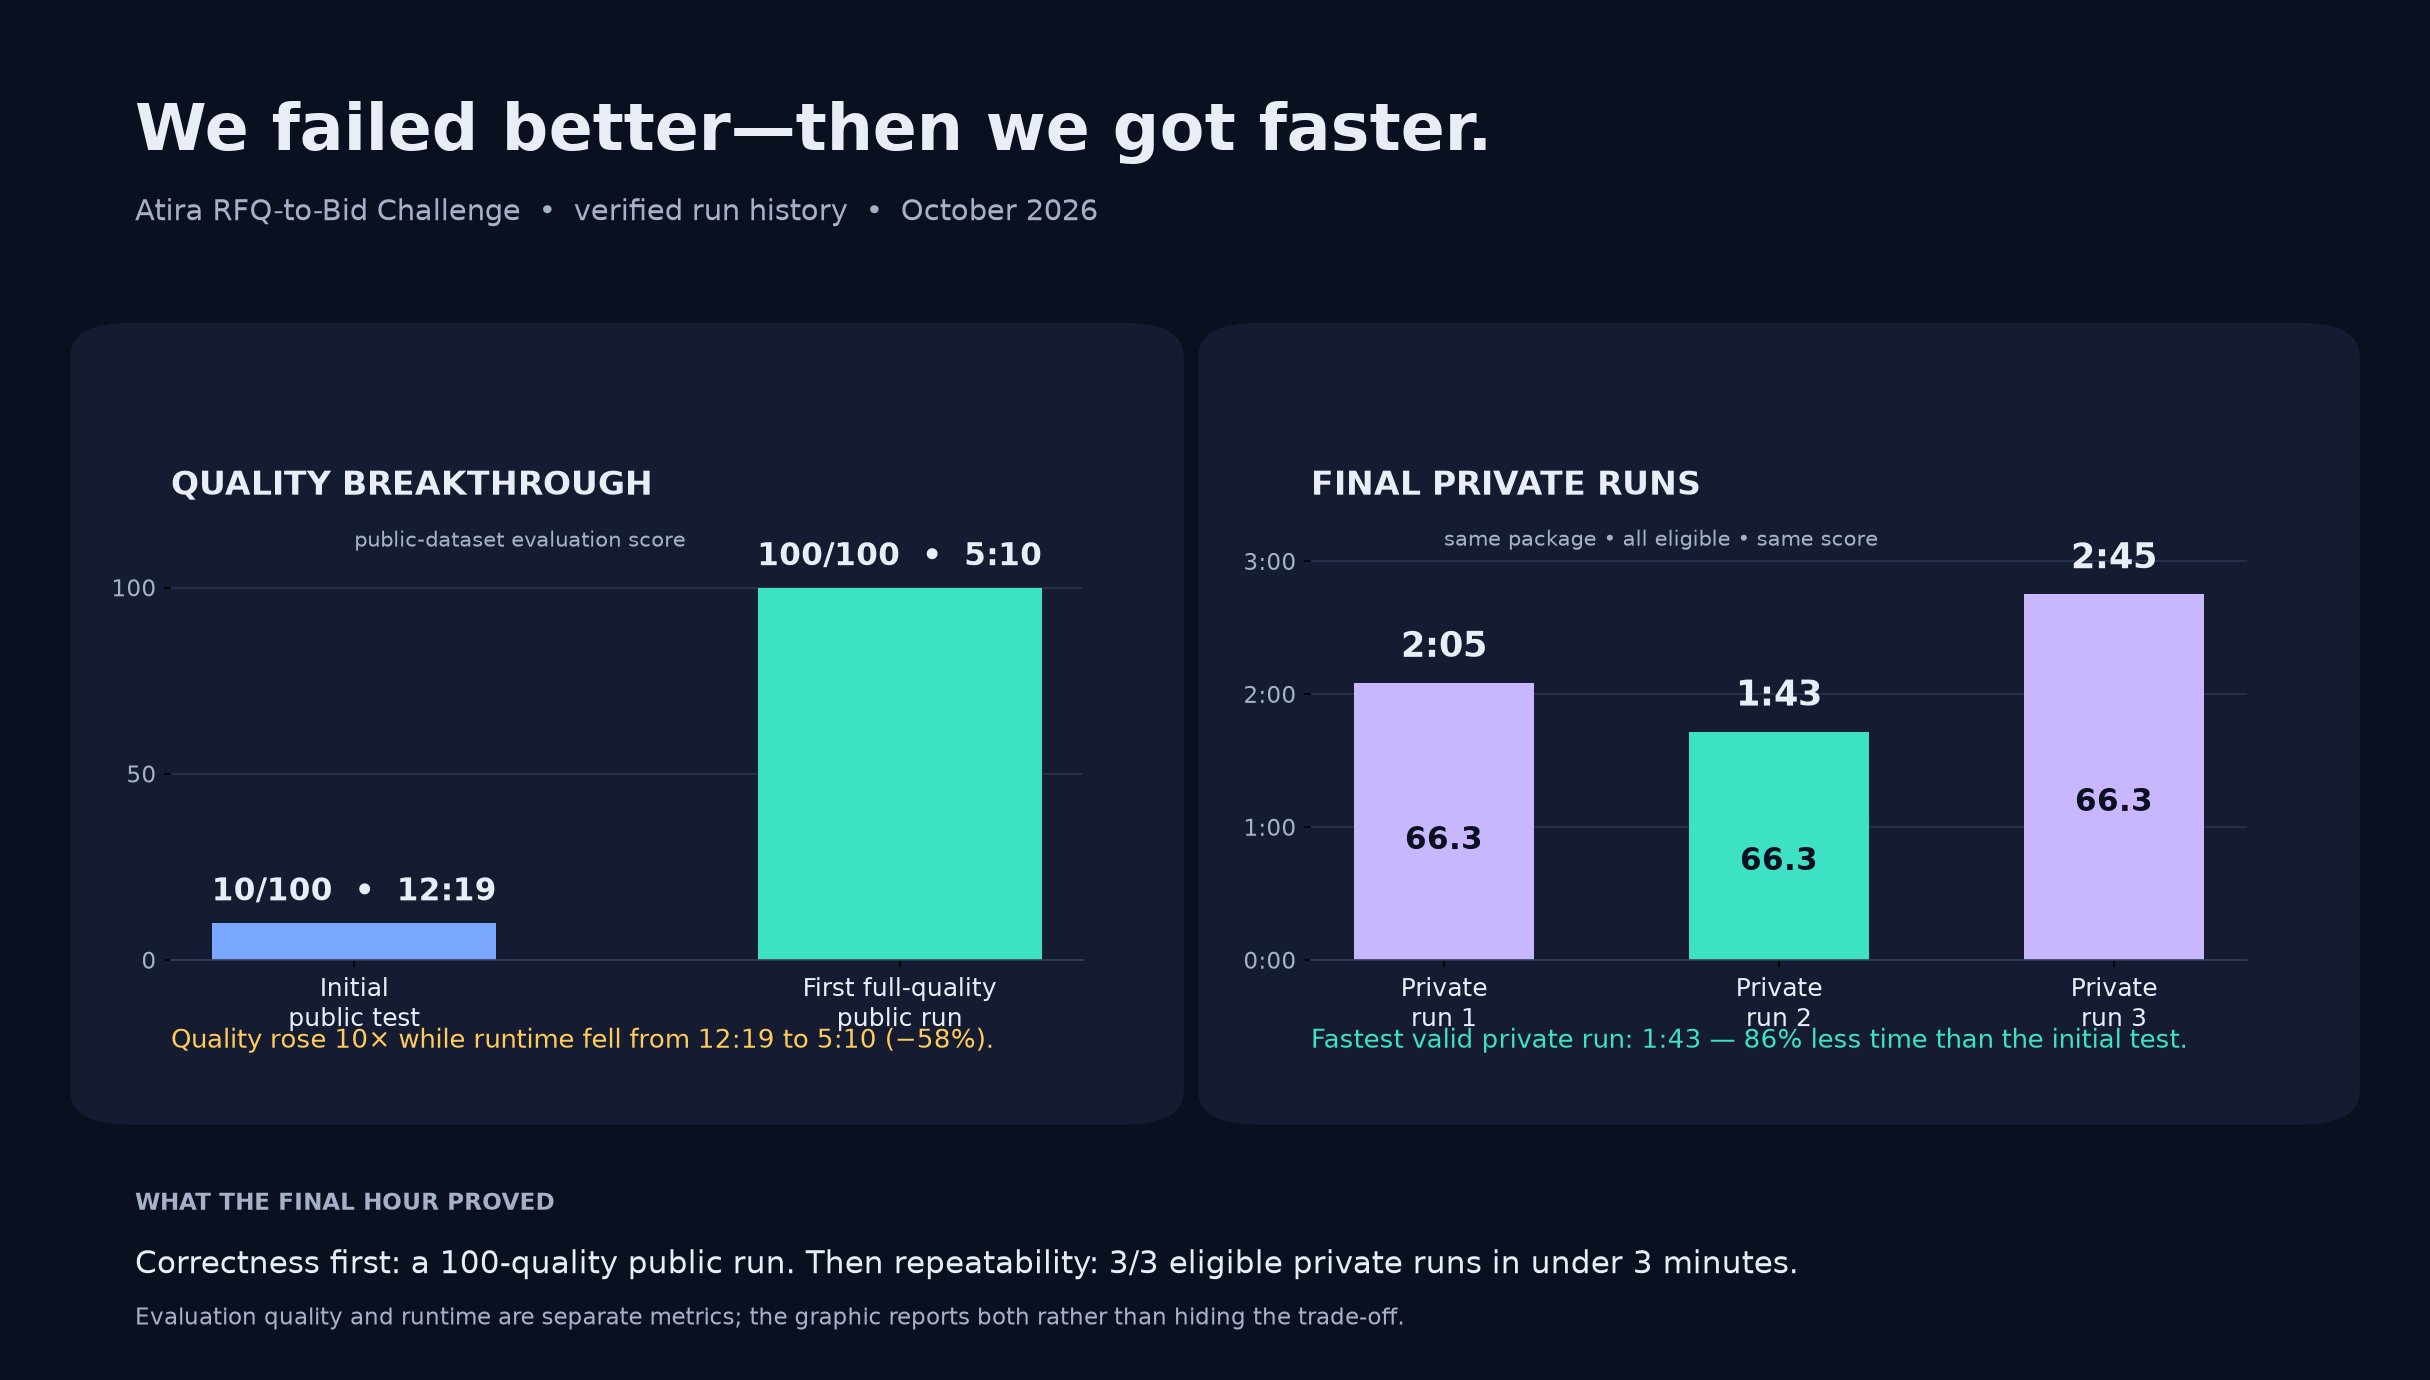
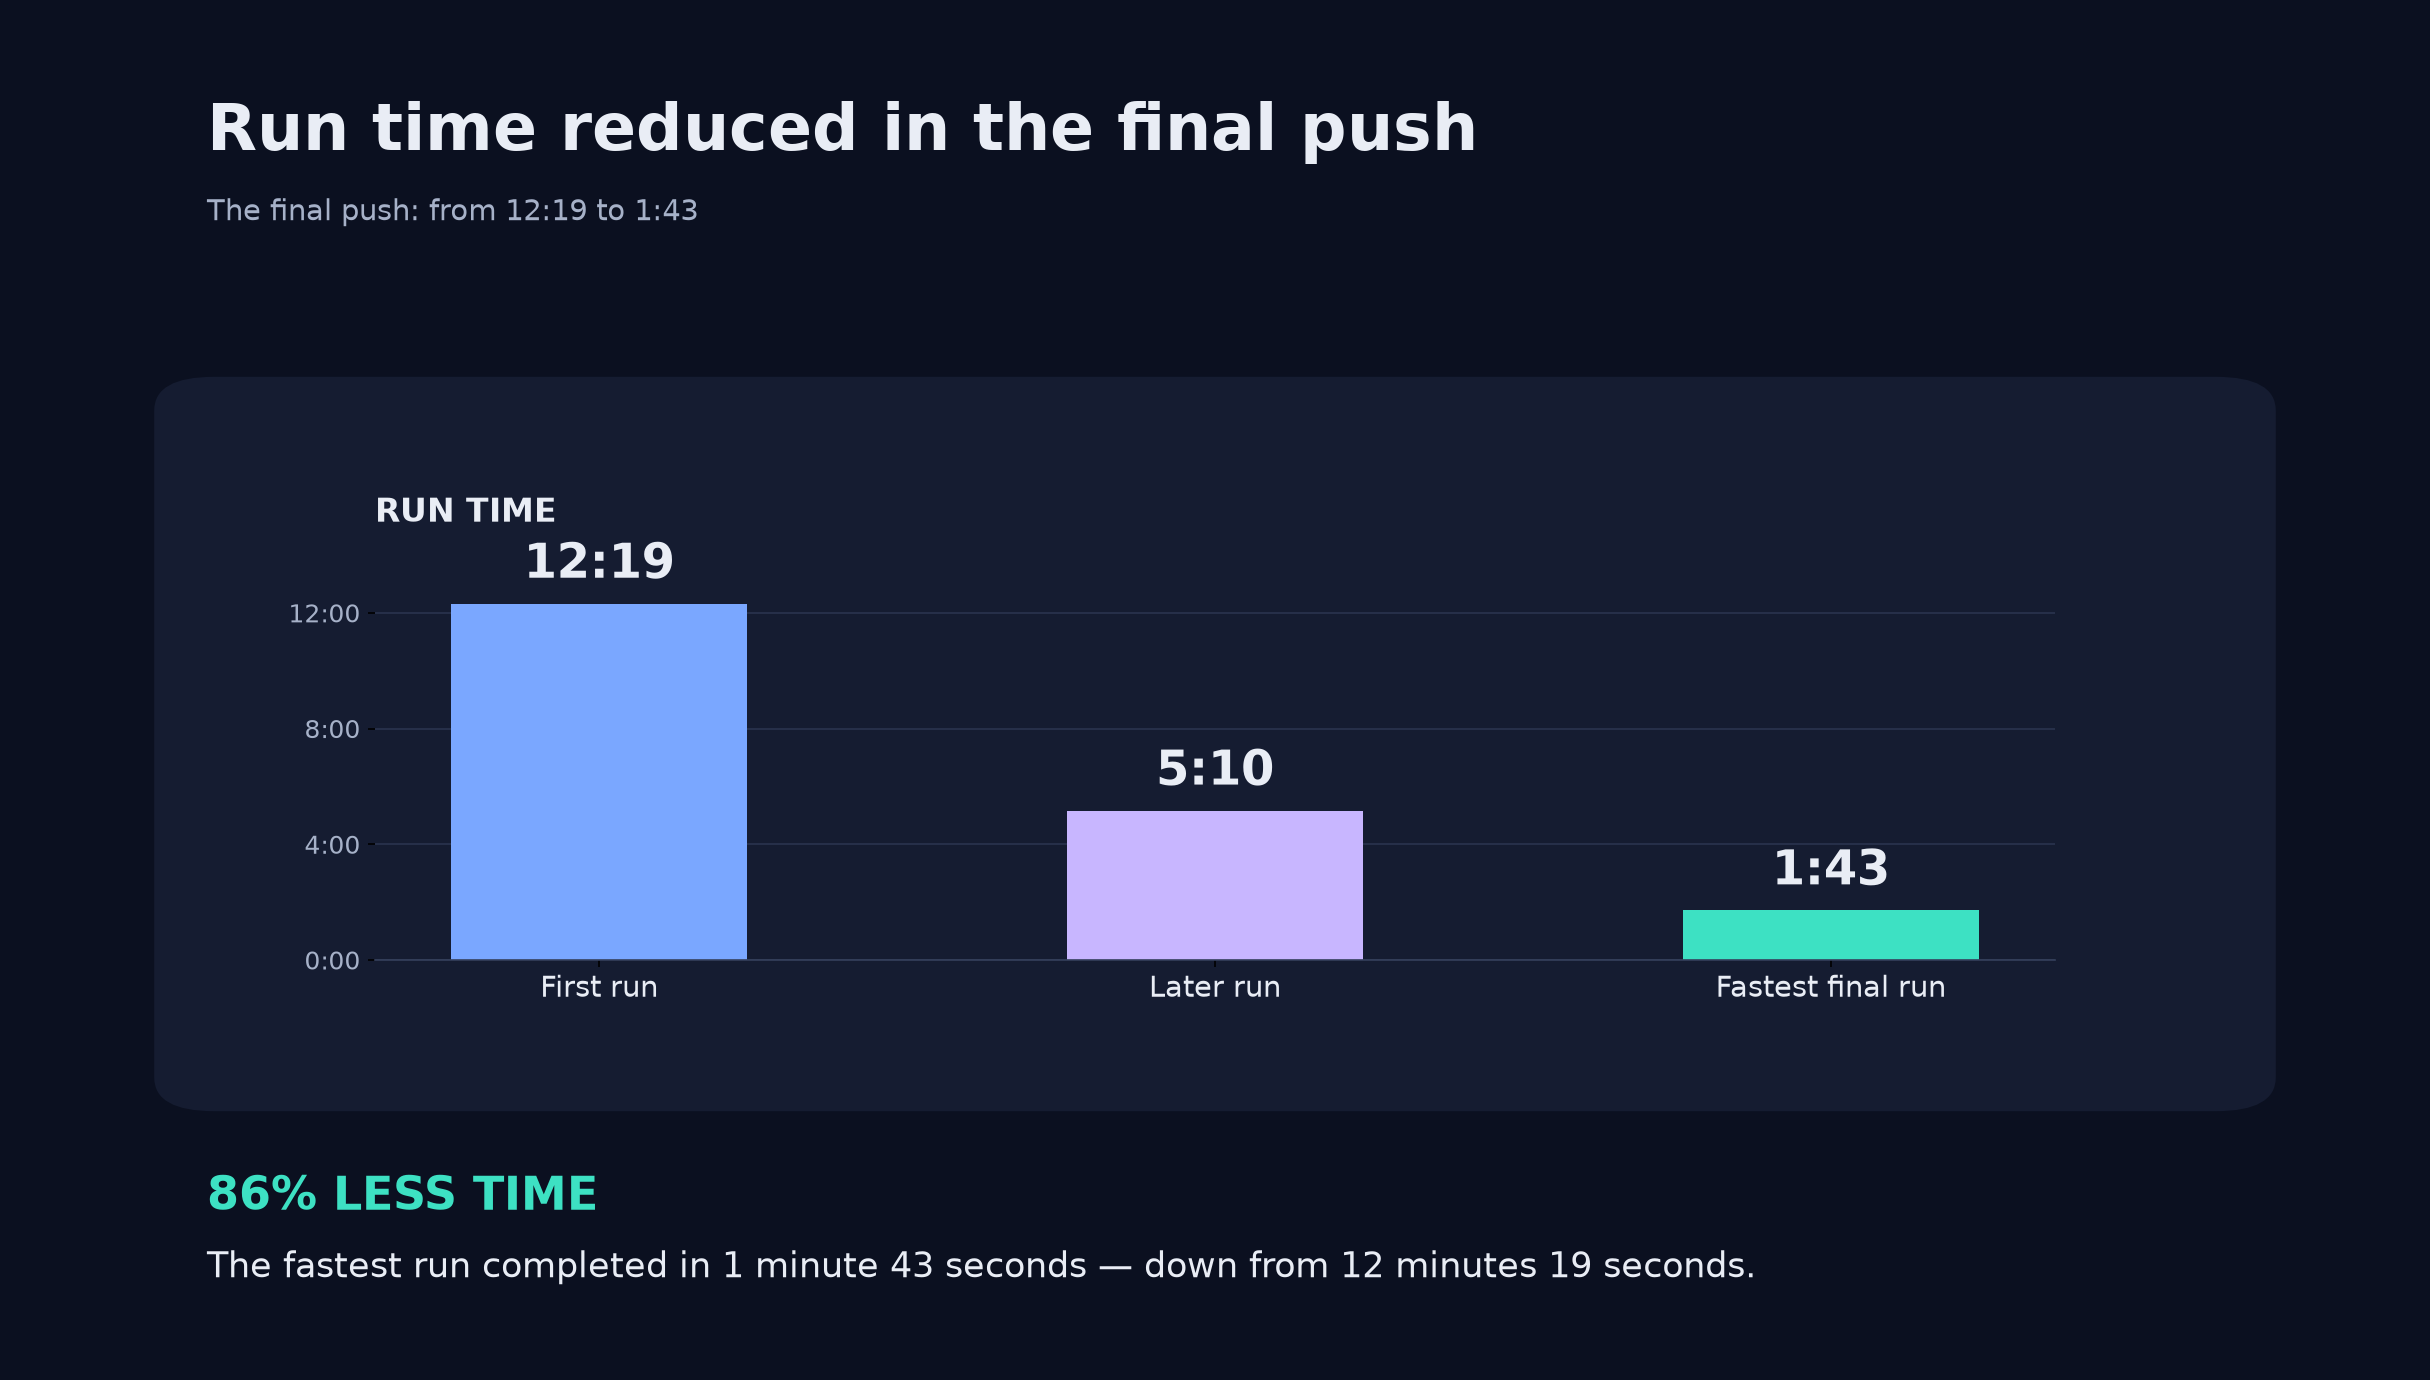
docs(linkedin): focus run evolution graphic on speed
Entire-Checkpoint: 01M4P7FY92EM1YDAS5WW4SHDJA

diff --git a/output/linkedin/make_run_evolution_graph.py b/output/linkedin/make_run_evolution_graph.py
@@ -28,13 +28,9 @@ def rounded_panel(ax, x: float, y: float, width: float, height: float, color: st
 
 
 def main() -> None:
-    # Verified, high-level run facts only. No scenario answers are embedded.
-    milestone_labels = ["Initial\npublic test", "First full-quality\npublic run"]
-    milestone_quality = [10.0, 100.0]
-    milestone_seconds = [739, 310]  # 12:19 and 5:10
-    final_labels = ["Private\nrun 1", "Private\nrun 2", "Private\nrun 3"]
-    final_quality = [66.3, 66.3, 66.3]
-    final_seconds = [125, 103, 165]  # 2:05, 1:43, 2:45
+    # Verified run-time milestones only. No scenario answers or quality scores are embedded.
+    labels = ["First run", "Later run", "Fastest final run"]
+    seconds = [739, 310, 103]  # 12:19, 5:10, 1:43
 
     navy = "#0B1020"
     panel = "#151C31"
@@ -49,73 +45,36 @@ def main() -> None:
     canvas = fig.add_axes([0, 0, 1, 1])
     canvas.set_axis_off()
 
-    # Background sections.
-    rounded_panel(canvas, 0.035, 0.19, 0.44, 0.57, panel)
-    rounded_panel(canvas, 0.505, 0.19, 0.46, 0.57, panel)
+    rounded_panel(canvas, 0.07, 0.20, 0.86, 0.52, panel)
 
-    fig.text(0.05, 0.90, "We failed better—then we got faster.", color=pale,
+    fig.text(0.08, 0.90, "Run time reduced in the final push", color=pale,
              fontsize=31, fontweight="bold", family="DejaVu Sans")
-    fig.text(0.05, 0.848,
-             "Atira RFQ-to-Bid Challenge  •  verified run history  •  October 2026",
+    fig.text(0.08, 0.848,
+             "The final push: from 12:19 to 1:43",
              color=muted, fontsize=14, family="DejaVu Sans")
 
-    # Left milestone plot: quality bars plus times.
-    left = fig.add_axes([0.065, 0.30, 0.38, 0.32], facecolor="none")
-    positions = [0, 1]
-    bars = left.bar(positions, milestone_quality, color=[blue, teal], width=0.52)
-    left.set_ylim(0, 116)
-    left.set_yticks([0, 50, 100])
-    left.set_yticklabels(["0", "50", "100"], color=muted, fontsize=11)
-    left.set_xticks(positions, milestone_labels, color=pale, fontsize=12)
-    left.spines[["top", "right", "left"]].set_visible(False)
-    left.spines["bottom"].set_color("#35405C")
-    left.grid(axis="y", color="#2A344E", linewidth=0.8)
-    left.set_axisbelow(True)
-    left.set_title("QUALITY BREAKTHROUGH", loc="left", color=pale,
-                   fontsize=16, fontweight="bold", pad=16)
-    left.text(0, 111, "public-dataset evaluation score", color=muted, fontsize=10)
-    for bar, quality, seconds in zip(bars, milestone_quality, milestone_seconds):
-        left.text(bar.get_x() + bar.get_width() / 2, quality + 4,
-                  f"{quality:.0f}/100  •  {minutes(seconds)}", ha="center", va="bottom",
-                  color=pale, fontsize=15, fontweight="bold")
-    fig.text(0.065, 0.235,
-             "Quality rose 10× while runtime fell from 12:19 to 5:10 (−58%).",
-             color=gold, fontsize=12.5, family="DejaVu Sans")
-
-    # Right final-runs plot: runtime with quality labels to show repeatability.
-    right = fig.add_axes([0.54, 0.30, 0.39, 0.32], facecolor="none")
+    chart = fig.add_axes([0.15, 0.30, 0.70, 0.30], facecolor="none")
     xs = [0, 1, 2]
-    bars = right.bar(xs, final_seconds, color=[lavender, teal, lavender], width=0.54)
-    right.set_ylim(0, 195)
-    right.set_yticks([0, 60, 120, 180])
-    right.set_yticklabels(["0:00", "1:00", "2:00", "3:00"], color=muted, fontsize=11)
-    right.set_xticks(xs, final_labels, color=pale, fontsize=12)
-    right.spines[["top", "right", "left"]].set_visible(False)
-    right.spines["bottom"].set_color("#35405C")
-    right.grid(axis="y", color="#2A344E", linewidth=0.8)
-    right.set_axisbelow(True)
-    right.set_title("FINAL PRIVATE RUNS", loc="left", color=pale,
+    bars = chart.bar(xs, seconds, color=[blue, lavender, teal], width=0.48)
+    chart.set_ylim(0, 840)
+    chart.set_yticks([0, 240, 480, 720])
+    chart.set_yticklabels(["0:00", "4:00", "8:00", "12:00"], color=muted, fontsize=12)
+    chart.set_xticks(xs, labels, color=pale, fontsize=14)
+    chart.spines[["top", "right", "left"]].set_visible(False)
+    chart.spines["bottom"].set_color("#35405C")
+    chart.grid(axis="y", color="#2A344E", linewidth=0.8)
+    chart.set_axisbelow(True)
+    chart.set_title("RUN TIME", loc="left", color=pale,
                     fontsize=16, fontweight="bold", pad=16)
-    right.text(0, 187, "same package • all eligible • same score", color=muted, fontsize=10)
-    for bar, seconds, quality in zip(bars, final_seconds, final_quality):
-        right.text(bar.get_x() + bar.get_width() / 2, seconds + 8, minutes(seconds),
-                   ha="center", va="bottom", color=pale, fontsize=17, fontweight="bold")
-        right.text(bar.get_x() + bar.get_width() / 2, max(seconds * 0.43, 19),
-                   f"{quality:.1f}", ha="center", va="center",
-                   color=navy, fontsize=15, fontweight="bold")
-    fig.text(0.54, 0.235,
-             "Fastest valid private run: 1:43 — 86% less time than the initial test.",
-             color=teal, fontsize=12.5, family="DejaVu Sans")
+    for bar, run_seconds in zip(bars, seconds):
+        chart.text(bar.get_x() + bar.get_width() / 2, run_seconds + 30, minutes(run_seconds),
+                   ha="center", va="bottom", color=pale, fontsize=23, fontweight="bold")
 
-    # Bottom facts anchor the story and preserve the quality / speed distinction.
-    fig.text(0.05, 0.115, "WHAT THE FINAL HOUR PROVED", color=muted,
-             fontsize=11, fontweight="bold", family="DejaVu Sans")
-    fig.text(0.05, 0.068,
-             "Correctness first: a 100-quality public run. Then repeatability: 3/3 eligible private runs in under 3 minutes.",
-             color=pale, fontsize=15, family="DejaVu Sans")
-    fig.text(0.05, 0.030,
-             "Evaluation quality and runtime are separate metrics; the graphic reports both rather than hiding the trade-off.",
-             color=muted, fontsize=11, family="DejaVu Sans")
+    fig.text(0.08, 0.115, "86% LESS TIME", color=teal,
+             fontsize=22, fontweight="bold", family="DejaVu Sans")
+    fig.text(0.08, 0.065,
+             "The fastest run completed in 1 minute 43 seconds — down from 12 minutes 19 seconds.",
+             color=pale, fontsize=17, family="DejaVu Sans")
 
     fig.savefig(OUT, dpi=150, facecolor=navy, bbox_inches="tight", pad_inches=0.1)
     print(OUT)
